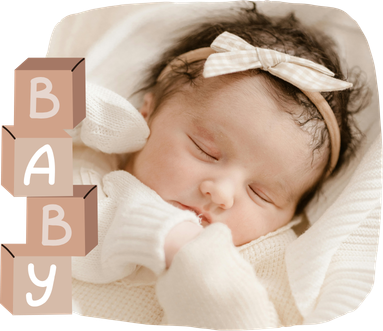
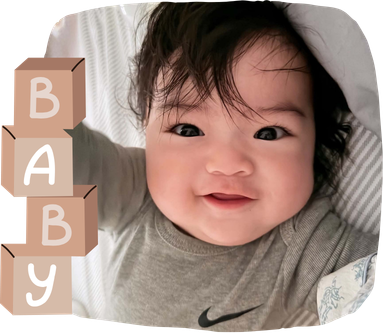
final commits

diff --git a/src/components/Reminders.jsx b/src/components/Reminders.jsx
@@ -2,7 +2,7 @@ import start1 from '../assets/images/graphics/start-1.png'
 import reminder1 from '../assets/images/graphics/reminder-1.png'
 import reminder2 from '../assets/images/graphics/reminder-2.png'
 import reminder3 from '../assets/images/graphics/reminder-3.png'
-import reminder4 from '../assets/images/graphics/reminder-4.png'
+// import reminder4 from '../assets/images/graphics/reminder-4.png'
 import reminder5 from '../assets/images/graphics/reminder-5.png'
 import feet from '../assets/images/graphics/feet.png'
 
@@ -16,7 +16,7 @@ const Reminders = () => {
                     <img
                         src={start1}
                         alt=""
-                        className="absolute right-0 w-[123px] h-[170px]"
+                        className="absolute right-0 w-[123px] h-[150px]"
                     />
                 </div>
                
@@ -25,49 +25,87 @@ const Reminders = () => {
                 </h1>
                 <div className="grid grid-cols-2 mt-10">
                     <div className='flex'>
-                        <img src={reminder1} alt="" />
+                        <img src={reminder1} alt="" className='h-[180px]' />
                     </div>
                     <div className='flex flex-col justify-center ms-3'>
-                        <h3 className='text-2xl'>Church Attire</h3>
-                        <p>Bring a modest outfit for the church ceremony.</p>
+                         <h3 className="text-2xl font-semibold">
+                            Baptism Attendance
+                        </h3>
+                        <div className="mb-2">
+                            <h4 className="text-lg font-semibold">Godparents & Sponsors:</h4>
+                            <p>
+                                Godparents and sponsors are required to attend the Baptism ceremony and should wear white attire.
+                            </p>
+                        </div>
+                        <div className="mb-2">
+                            <h4 className="text-lg font-semibold">Other Guests:</h4>
+                            <p>
+                                 Other guests are welcome to proceed directly to the reception venue.
+                            </p>
+                        </div>
                     </div>
                 </div>
-                <div className="grid grid-cols-2 mt-[-20px]">
+                <div className="grid grid-cols-2 ">
                     <div className='flex flex-col justify-center pe-1'>
-                        <h3 className='text-2xl'>Baby Essentials</h3>
-                        <p>Prepare practical baby essentials.</p>
+                        <h3 className='text-2xl mt-5'>Gift Preferences</h3>
+                        <p>Your presence is already a gift! However,  if you’d like to bless Kirsten with something extra, We welcome gifts in kind or monetary gifts.</p>
                     </div>
                     <div className='flex'>
-                        <img src={reminder2} alt="" />
+                        <img src={reminder2} alt="" className='h-[200px]' />
                     </div>
                 </div>
-                <div className="grid grid-cols-2 mt-[-10px]">
+                <div className="grid grid-cols-2 mt-7">
                     <div className='flex'>
-                        <img src={reminder3} alt="" />
+                        <img src={reminder3} alt="" className='h-[200px]'/>
                     </div>
                     <div className='flex flex-col justify-center ms-3'>
-                        <h3 className='text-2xl'>Be On Time</h3>
-                        <p>Arrive on time for the baptism itself.</p>
+                        <div className="mt-0">
+                            <h3 className="text-2xl font-semibold">
+                                Party Dress Code
+                            </h3>
+
+                            <div className="mb-2">
+                                <h4 className="text-lg font-semibold">Little Guests:</h4>
+                                <p>
+                                    Kiddie costumes! Come dressed as your favorite character.
+                                </p>
+                            </div>
+
+                            <div className="mb-2">
+                                <h4 className="text-lg font-semibold">Adult Guests:</h4>
+                                <p>
+                                    Anything pink and comfy! Dress comfortably and enjoy the celebration.
+                                </p>
+                            </div>
+
+                            <div className="mb-2">
+                                <h4 className="text-lg font-semibold">Pool Attire:</h4>
+                                <p>
+                                    Guests who wish to enjoy the pool are kindly requested to bring appropriate swimwear.
+                                </p>
+                            </div>
+                        </div>
+
                     </div>
                 </div>
-                <div className="grid grid-cols-2 mt-[-5px]">
+                <div className="grid grid-cols-2 mt-5">
                     <div className='flex flex-col justify-center pe-1'>
-                        <h3 className='text-2xl'>Be Present</h3>
-                        <p>Keep hands, bottles, and baby items clean at all times.</p>
+                                               <h3 className='text-2xl'>Capture the Memories</h3>
+                        <p>Take photos and videos throughout the celebration and share your precious moments with us through our shared photo album. </p>
                     </div>
                     <div className='flex'>
-                        <img src={reminder4} alt="" />
+                         <img src={reminder5} alt="" className='h-[200px]'/>
+                       
                     </div>
                 </div>
-                <div className="grid grid-cols-2 pb-7">
+                {/* <div className="grid grid-cols-2 pb-7">
                     <div className='flex'>
-                        <img src={reminder5} alt="" />
+                         <img src={reminder4} alt="" className='h-[200px]'/>
                     </div>
                     <div className='flex flex-col justify-center ms-3'>
-                        <h3 className='text-2xl'>Capture the Memories</h3>
-                        <p>Take lots of pictures.</p>
+
                     </div>
-                </div>
+                </div> */}
                 <div className="flex justify-end relative">
                     <img
                         src={feet}

diff --git a/src/components/BirthdayDetails.jsx b/src/components/BirthdayDetails.jsx
@@ -1,4 +1,4 @@
-import trumpet from '../assets/images/graphics/trumpet.png'
+// import trumpet from '../assets/images/graphics/trumpet.png'
 import church from '../assets/images/graphics/church.png'
 import stars from '../assets/images/graphics/stars.png'
 import baby from '../assets/images/graphics/baby-2.png'
@@ -12,18 +12,9 @@ const BirthdayDetails = () => {
 
     return (
         <>
-        <section className="block min-h-[100vh]">
-            <div className="grid grid-cols-3">
-                <div className="col-span-2">
-                    <h1 className="ms-5 text-4xl">Save the Date</h1>
-                    <p className='ms-5'>January 22, 2027</p>
-                    <p className='ms-5'>Friday at 2:00pm</p>
-                </div>
-                <div className="w-full flex justify-end">
-                    <img src={trumpet} alt="" className='me-[-2rem] mt-[-.7rem]'/>
-                </div>
-            </div>
-            <div className="grid grid-cols-3">
+        <section className="block min-h-[80vh]">
+            
+            <div className="grid grid-cols-3 mt-5">
                 <div className="w-full flex justify-start">
                     <img
                         src={church}
@@ -34,10 +25,13 @@ const BirthdayDetails = () => {
                 <div className="col-span-2">
                     <h3 className='text-2xl mt-5'>Church Location</h3>
                     <p>Archdiocesan Shrine of St. Thérèse of the Child Jesus</p>
-                    <a href=""className='btn btn-primary mt-3'>Get Gooogle Maps Location</a>
+                    <a href=""className='btn btn-primary mt-3 w-max'>Get Gooogle Maps Location</a>
                     <div className='w-full flex justify-end'>
                         <img src={stars} alt="" className='mt-10 me-[-50px]' />
                     </div>
+                </div>
+                <div className="col-span-3">
+                    
                 </div>
             </div>
             <div className="grid grid-cols-3">
@@ -53,8 +47,8 @@ const BirthdayDetails = () => {
                         <img src={balloon} alt="" className='h-[63px] ms-[-4px]' />
                         <h3 className='text-2xl'>Birthday <br /> Celebration</h3>
                     </div>
-                    <p>The Privè by the Sea in  Vistamar Beach & Residential Estates</p>
-                    <a href=""className='btn btn-primary mt-3'>Get Gooogle Maps Location</a>
+                    <p className='me-1'>The Privè by the Sea in  Vistamar Beach & Residential Estates</p>
+                    <a href=""className='btn btn-primary mt-3 !w-max'>Get Gooogle Maps Location</a>
                     <div className='w-full flex justify-end'>
                         <img src={smallCircle} alt="" className='mt-10' />
                     </div>

diff --git a/src/App.jsx b/src/App.jsx
@@ -4,20 +4,25 @@ import envelope from './assets/images/graphics/envelope.png'
 import { Home } from './page';
 
 function App() {
-  const [password, setPassword] = useState('')
+ const [password, setPassword] = useState('')
   const [error, setError] = useState('')
-  const [isUnlocked, setIsUnlocked] = useState(
-    localStorage.getItem('surpriseUnlocked') === 'true'
-  )
 
-  // Change this to your desired password
-  const correctPassword = 'surprise123'
+  // Change these whenever you update your password
+  const correctPassword = 'SuperSurprise143'
+  const passwordVersion = '4'
+
+  const isAuthenticated =
+    localStorage.getItem('surpriseUnlocked') === 'true' &&
+    localStorage.getItem('passwordVersion') === passwordVersion
+
+  const [isUnlocked, setIsUnlocked] = useState(isAuthenticated)
 
   const handleUnlock = (e) => {
     e.preventDefault()
 
     if (password === correctPassword) {
       localStorage.setItem('surpriseUnlocked', 'true')
+      localStorage.setItem('passwordVersion', passwordVersion)
 
       setIsUnlocked(true)
       setError('')
@@ -27,9 +32,7 @@ function App() {
   }
 
   if (isUnlocked) {
-    return (
-      <Home />
-    )
+    return <Home />
   }
 
   return (
@@ -96,11 +99,11 @@ function App() {
           </button>
         </form>
 
-      <div className="fixed bottom-5 w-full text-center flex justify-center items-center gap-2">
-        <button type="button" onClick={() => navigator.clipboard.writeText("surprise123")} class="btn bg-secondary text-white !font-normal">
+      {/* <div className="fixed bottom-5 w-full text-center flex justify-center items-center gap-2">
+        <button type="button" onClick={() => navigator.clipboard.writeText("SuperSurprise123")} class="btn bg-secondary text-white !font-normal">
           Copy Password
         </button>
-      </div>
+      </div> */}
       </section>
     </>
   )

diff --git a/src/components/Footer.jsx b/src/components/Footer.jsx
@@ -6,18 +6,14 @@ import bottomClouds from '../assets/images/graphics/bottom-clouds.png'
 const Footer = () => {
     return (
         <>
-            <section className='!py-0 min-h-[100vh]'>
+            <section className='!py-0 min-h-[100vh] mt-7'>
         
                 <div className='container'>
                     <img src={footerImage} alt="" className='mt-5' />
                     <h1 className='text-4xl mt-5'>Come Celebrate <br /> With Us</h1>
                     <p>A blessed baptism, a joyful first birthday, and memories to cherish forever. We’d love to celebrate with you!</p>
                     <br />
-                    <div className='flex items-center gap-3'>
-                        <a href="" className='btn btn-sm btn-primary'>RSVP Here</a>
-                        <p>or Confirm your attendance  </p>
-                    </div>
-                    <p>to attendance to the parents.</p>
+                    <p>Your presence would mean so much to us!</p>
 
                     <h1 className='text-lg mt-5'>Let us know before December 15. </h1>
 

diff --git a/src/components/Hero.jsx b/src/components/Hero.jsx
@@ -23,11 +23,16 @@ const Hero = () => {
                     </div>
                     <div className="container">
                         <p className="mt-[-2rem]">Join us as we celebrate</p>
-                        <h1 className="mt-5 text-5xl">Kirsten's</h1>
+                        <h1 className="mt-5 text-5xl bebu-ribbon">Kirsten's</h1>
                         <h1 className="text-3xl">Baptism & 1st Birthday</h1>
                         <p className="mt-3 pe-5">
                             With hearts full of love and gratitude, we invite you to celebrate a very special day as our little girl receives her first blessing and turns ONE!
                         </p>
+
+                
+                        <h1 class="text-xl mt-5">Save the Date:  </h1>
+                        <p class=""> January 22, 2027 @ 2:00pm</p>
+
                         <a href="" className="btn btn-primary mt-5">RSVP HERE</a>
                     </div>
                 </div>

diff --git a/src/assets/css/custom.css b/src/assets/css/custom.css
@@ -35,8 +35,8 @@
 }
 
 .container{
-    padding-left: 1rem;
-    padding-right: 1rem;
+    padding-left: 1.3rem;
+    padding-right: 1.3rem;
 }
 
 .bebu-photography{
@@ -58,4 +58,22 @@
 
 .PhotoView-Slider__BannerWrap{
   background-color: rgb(0 0 0 / 36%) !important;
+}
+
+.bebu-ribbon {
+  position: relative;
+
+  &::before{
+    content: "";
+    position: absolute;
+    background-image: url("../images/graphics/ribbon.png");
+    background-size: contain;
+    background-repeat: no-repeat;
+    background-position: center;
+    width: 34px;
+    height: 20px;
+    top: -10px;
+    left: -15px;
+    transform: rotate(-15deg);
+  }
 }

diff --git a/src/components/Gallery.jsx b/src/components/Gallery.jsx
@@ -59,7 +59,7 @@ const Gallery = () => {
     };
     return (
         <>
-            <section>
+            <section className="!pt-0">
                 <div className="container">
                     <h1 className="text-4xl mb-5">First Birthday Photography</h1>
                      <PhotoProvider>
